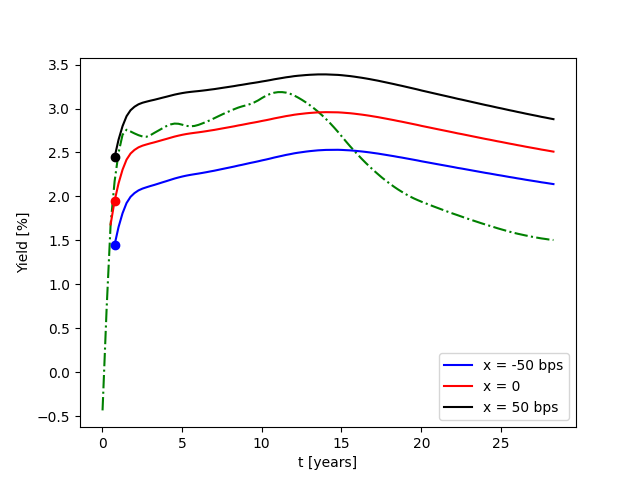
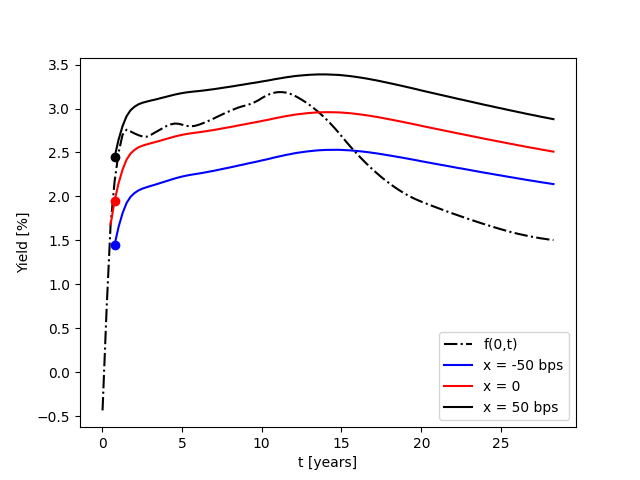
Hull-White model: Yield curves at future points in time.

diff --git a/docs/hull_white_1f.tex b/docs/hull_white_1f.tex
@@ -20,6 +20,15 @@ D(t) = \exp \left( - \int_0^t r(u) du \right) = P(0,t) \exp \left( - \int_0^t x(
 
 \begin{figure}
 \centering
+\includegraphics[scale=0.5]{figures/yield_curves_0_5_years.png}
+\includegraphics[scale=0.5]{figures/yield_curves_10_years.png}
+\includegraphics[scale=0.5]{figures/yield_curves_15_years.png}
+\caption{Yield curves at future points in time: 0.5, 10, and 20 years...}
+\end{figure}
+
+
+\begin{figure}
+\centering
 \includegraphics[scale=0.7]{figures/pseudo_short_rate_paths.png}
 \includegraphics[scale=0.7]{figures/short_rate_paths.png}
 \caption{Monte-Carlo paths for $x(t)$ and $r(t)$...}

diff --git a/docs/main.tex b/docs/main.tex
@@ -15,13 +15,14 @@
 
 %\maketitle
 
-%\tableofcontents
+\tableofcontents
 
 
-%\input{introduction}
+\input{introduction}
 
-%\input{hull_white_1f}
+\input{hull_white_1f}
 
+\input{refi_bond}
 
 \appendix
 \chapter{Short Rate Models}
